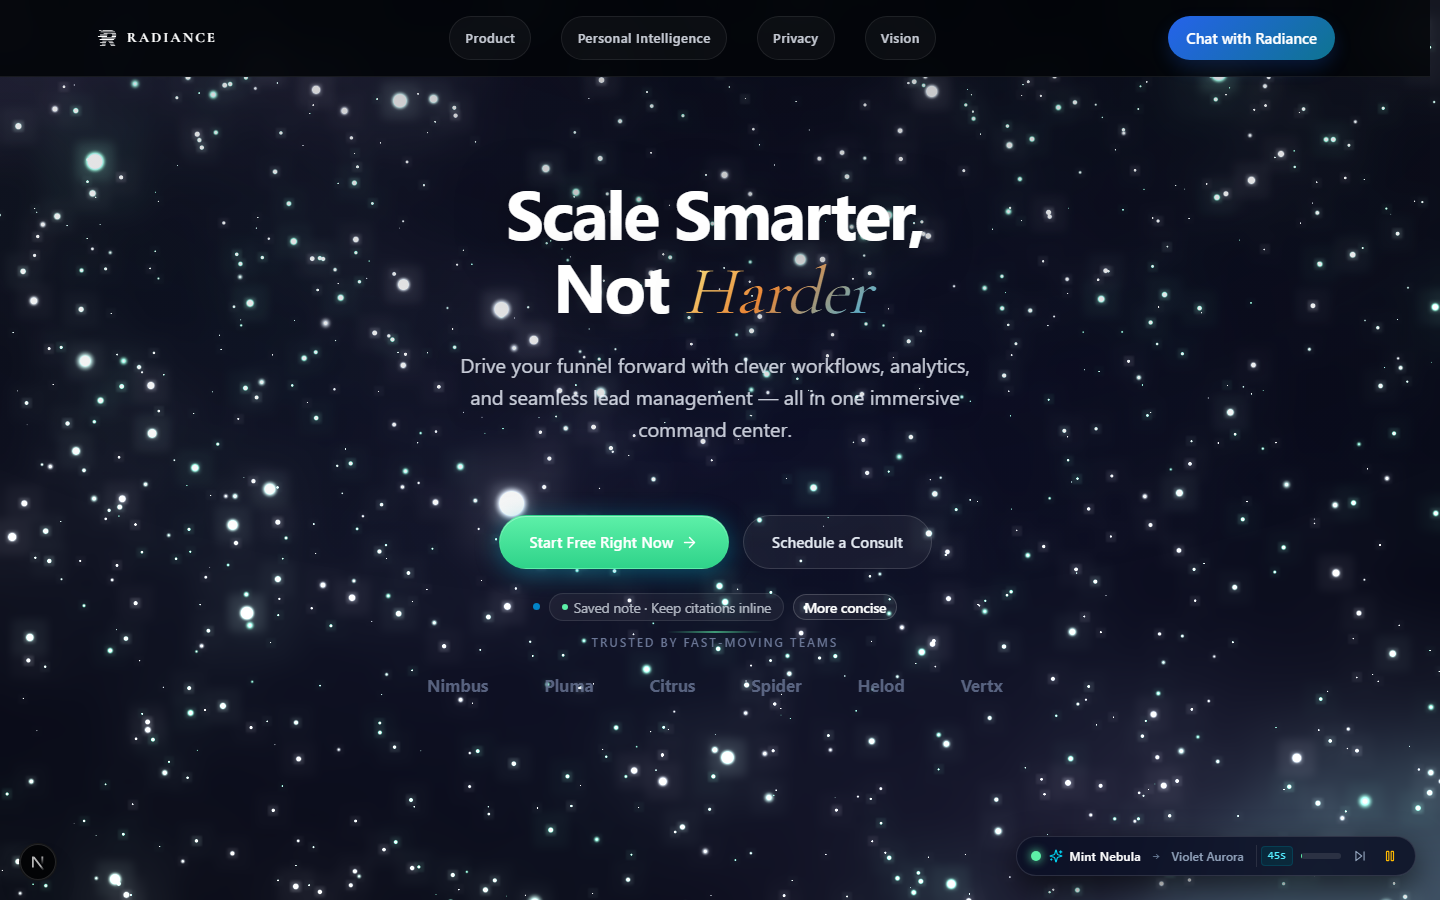
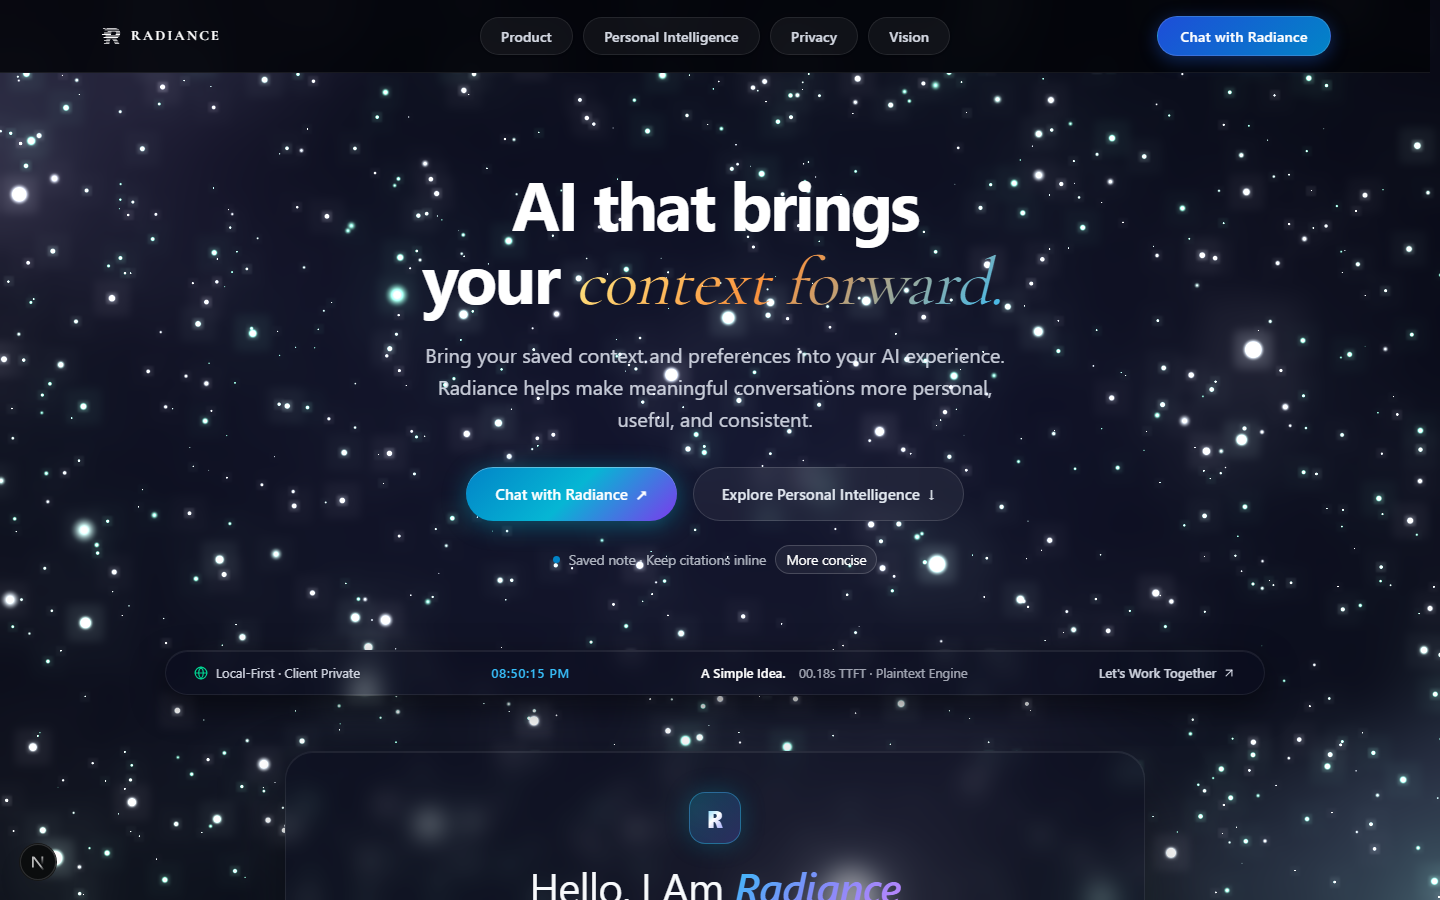
feat(landing): refine topbar navigation, center hero showcase, and remove legacy demo surfaces

diff --git a/src/components/landing/hero-landscape.css b/src/components/landing/hero-landscape.css
@@ -34,8 +34,66 @@
 }
 
 /* ==========================================================================
-   Top Hero Showcase Grid (Editorial Left + Fluted Glass Torus Right)
+   Top Hero Centered Showcase (Editorial Authority — No Slop, Perfect Rhythm)
    ========================================================================== */
+
+.hero-center-showcase {
+  display: flex;
+  flex-direction: column;
+  align-items: center;
+  justify-content: center;
+  width: 100%;
+  max-width: 920px;
+  margin: 0 auto 3.25rem;
+  text-align: center;
+  box-sizing: border-box;
+}
+
+.hero-editorial-center {
+  display: flex;
+  flex-direction: column;
+  align-items: center !important;
+  text-align: center !important;
+  width: 100%;
+  max-width: 840px;
+  margin: 0 auto;
+}
+
+.hero-editorial-center .hero-eyebrow-badge {
+  margin-left: auto;
+  margin-right: auto;
+}
+
+.hero-editorial-center .hero-narrative-title,
+.hero-editorial-center .landing-display {
+  text-align: center;
+  margin: 0 auto 1.25rem;
+}
+
+.hero-editorial-center .hero-narrative-lede,
+.hero-editorial-center .landing-lede {
+  text-align: center;
+  margin: 0 auto 2.25rem;
+  max-width: 660px;
+}
+
+.hero-editorial-center .hero-actions-row {
+  display: flex;
+  align-items: center;
+  justify-content: center;
+  gap: 1rem;
+  margin: 0 auto;
+  flex-wrap: wrap;
+}
+
+.hero-editorial-center .hero-subtext-note {
+  display: flex;
+  align-items: center;
+  justify-content: center;
+  gap: 0.5rem;
+  margin: 1.25rem auto 0;
+  text-align: center;
+}
 
 .hero-showcase-grid {
   display: grid;
@@ -321,41 +379,151 @@
 .landing-root .landing-nav,
 .landing-root .landing-nav-redesign {
   --txt: #ffffff !important;
-  background: rgba(1, 3, 7, 0.88) !important;
+  position: sticky;
+  top: 0;
+  z-index: 50;
+  width: 100%;
+  background: rgba(2, 4, 8, 0.85) !important;
   border-bottom: 1px solid rgba(255, 255, 255, 0.08) !important;
   color: #ffffff !important;
   backdrop-filter: blur(20px) !important;
   -webkit-backdrop-filter: blur(20px) !important;
+  padding: 0.75rem 0 !important;
+}
+
+.landing-root .landing-nav-row {
+  max-width: 1280px;
+  width: 100%;
+  margin: 0 auto;
+  padding: 0 1.5rem;
+  display: flex;
+  align-items: center;
+  justify-content: space-between;
+  box-sizing: border-box;
+}
+
+.landing-root .landing-nav-brand-wrap {
+  flex: 1;
+  display: flex;
+  align-items: center;
+  justify-content: flex-start;
+}
+
+.landing-root .landing-nav-links {
+  display: none;
+  align-items: center;
+  justify-content: center;
+  gap: 0.65rem;
+  flex: 2;
+}
+
+@media (min-width: 980px) {
+  .landing-root .landing-nav-links {
+    display: flex;
+  }
+}
+
+.landing-root .landing-nav-actions {
+  flex: 1;
+  display: flex;
+  align-items: center;
+  justify-content: flex-end;
+  gap: 0.75rem;
 }
 
 .landing-root .landing-nav .landing-nav-links a,
 .landing-root .landing-nav-redesign .landing-nav-links a {
   display: inline-flex;
   align-items: center;
-  padding: 0.35rem 0.95rem;
+  justify-content: center;
+  min-height: 38px;
+  padding: 0.45rem 1.25rem;
   border-radius: 9999px;
-  background: rgba(255, 255, 255, 0.04);
-  border: 1px solid rgba(255, 255, 255, 0.08);
+  background: rgba(255, 255, 255, 0.05);
+  border: 1px solid rgba(255, 255, 255, 0.09);
   font-family: var(--font-sans);
-  font-size: 0.8125rem;
+  font-size: 0.875rem;
   font-weight: 500;
-  letter-spacing: 0.04em;
-  color: rgba(240, 245, 255, 0.82) !important;
-  transition: background-color 0.2s ease, border-color 0.2s ease, color 0.2s ease, box-shadow 0.2s ease;
+  letter-spacing: 0.01em;
+  color: rgba(240, 245, 255, 0.88) !important;
+  text-decoration: none;
+  transition: all 0.2s cubic-bezier(0.16, 1, 0.3, 1);
+  box-shadow: 0 1px 2px rgba(0, 0, 0, 0.2);
 }
 
 .landing-root .landing-nav .landing-nav-links a:hover,
 .landing-root .landing-nav-redesign .landing-nav-links a:hover {
-  background: rgba(255, 255, 255, 0.09);
-  border-color: rgba(6, 182, 212, 0.35);
-  color: #38bdf8 !important;
-  box-shadow: 0 0 16px rgba(6, 182, 212, 0.2);
+  background: rgba(255, 255, 255, 0.12);
+  border-color: rgba(255, 255, 255, 0.22);
+  color: #ffffff !important;
+  box-shadow: 0 0 16px rgba(255, 255, 255, 0.08);
+  transform: translateY(-1px);
+}
+
+.landing-root .landing-nav .landing-nav-links a:active,
+.landing-root .landing-nav-redesign .landing-nav-links a:active {
+  transform: translateY(0) scale(0.98);
+}
+
+/* Right Header CTA Button */
+.landing-root .landing-nav-actions .landing-cta-desktop,
+.landing-root .landing-nav .landing-cta {
+  display: none;
+  align-items: center;
+  justify-content: center;
+  min-height: 40px;
+  padding: 0.55rem 1.4rem;
+  border-radius: 9999px;
+  background: linear-gradient(135deg, #1d4ed8 0%, #0284c7 100%) !important;
+  border: 1px solid rgba(255, 255, 255, 0.15) !important;
+  font-family: var(--font-sans);
+  font-size: 0.875rem;
+  font-weight: 600;
+  letter-spacing: 0.02em;
+  color: #ffffff !important;
+  text-decoration: none;
+  white-space: nowrap;
+  box-shadow: 0 4px 18px rgba(37, 99, 235, 0.38) !important;
+  transition: all 0.2s cubic-bezier(0.16, 1, 0.3, 1) !important;
+}
+
+@media (min-width: 980px) {
+  .landing-root .landing-nav-actions .landing-cta-desktop,
+  .landing-root .landing-nav .landing-cta {
+    display: inline-flex;
+  }
+}
+
+.landing-root .landing-nav-actions .landing-cta-desktop:hover,
+.landing-root .landing-nav .landing-cta:hover {
+  background: linear-gradient(135deg, #2563eb 0%, #0369a1 100%) !important;
+  box-shadow: 0 6px 24px rgba(37, 99, 235, 0.55) !important;
+  transform: translateY(-1px);
+}
+
+.landing-root .landing-nav-actions .landing-cta-desktop:active,
+.landing-root .landing-nav .landing-cta:active {
+  transform: translateY(0) scale(0.98);
 }
 
 .landing-root .landing-nav .landing-menu-btn,
 .landing-root .landing-nav-redesign .landing-menu-btn {
-  border-color: rgba(255, 255, 255, 0.15) !important;
+  display: inline-flex;
+  align-items: center;
+  justify-content: center;
+  width: 40px;
+  height: 40px;
+  border: 1px solid rgba(255, 255, 255, 0.15) !important;
+  background: rgba(255, 255, 255, 0.05) !important;
   color: #ffffff !important;
+  border-radius: 9999px;
+}
+
+@media (min-width: 980px) {
+  .landing-root .landing-nav .landing-menu-btn,
+  .landing-root .landing-nav-redesign .landing-menu-btn {
+    display: none !important;
+  }
 }
 
 /* Stage & Field wrappers */

diff --git a/src/components/landing/hero-landscape.tsx b/src/components/landing/hero-landscape.tsx
@@ -3,9 +3,7 @@
 import React, { useState, useEffect, memo } from "react";
 import { motion, useReducedMotion } from "motion/react";
 import { Sparkles, Globe, ArrowUpRight } from "lucide-react";
-import { FlutedGlassTorus } from "./fluted-glass-torus";
 import { HeroProductStage } from "./hero-product-stage";
-import { IntelligenceField } from "./intelligence-field";
 import { LandingCta } from "./landing-cta";
 import { motionDurations, motionEasing } from "@/lib/motion/presets";
 import "./hero-landscape.css";
@@ -47,11 +45,11 @@ export function HeroLandscape() {
       aria-labelledby="hero-display-heading"
     >
       <div className="hero-landscape-shell">
-        {/* Top Hero Split Showcase (Synasite & Retreats Editorial Grid) */}
-        <div className="hero-showcase-grid">
-          {/* Left Column: Editorial Typography & High-Craft CTAs */}
+        {/* Top Hero Centered Showcase */}
+        <div className="hero-center-showcase">
+          {/* Editorial Typography & High-Craft CTAs */}
           <motion.div 
-            className="hero-editorial-column"
+            className="hero-editorial-column hero-editorial-center"
             initial={shouldReduceMotion ? false : { opacity: 0, y: 24 }}
             animate={{ opacity: 1, y: 0 }}
             transition={shouldReduceMotion ? { duration: 0 } : { duration: 0.6, ease: motionEasing.entrance }}
@@ -79,16 +77,6 @@ export function HeroLandscape() {
               <span>Saved note · Keep citations inline</span>
               <span>More concise</span>
             </p>
-          </motion.div>
-
-          {/* Right Column: Fluted Glass Slit-Scan Prism & Aurora Torus (Synasite Reference) */}
-          <motion.div
-            className="hero-visual-column"
-            initial={shouldReduceMotion ? false : { opacity: 0, scale: 0.96 }}
-            animate={{ opacity: 1, scale: 1 }}
-            transition={shouldReduceMotion ? { duration: 0 } : { duration: 0.7, delay: 0.1, ease: motionEasing.entrance }}
-          >
-            <FlutedGlassTorus />
           </motion.div>
         </div>
 
@@ -131,17 +119,6 @@ export function HeroLandscape() {
           transition={shouldReduceMotion ? { duration: 0 } : { duration: 0.7, delay: 0.25, ease: motionEasing.entrance }}
         >
           <HeroProductStage />
-        </motion.div>
-
-        {/* Live Interactive Context Proof (Centered below product stage) */}
-        <motion.div
-          className="hero-field-wrapper"
-          style={{ width: "100%", maxWidth: "980px", marginTop: "3.5rem" }}
-          initial={shouldReduceMotion ? false : { opacity: 0, y: 24 }}
-          animate={{ opacity: 1, y: 0 }}
-          transition={shouldReduceMotion ? { duration: 0 } : { duration: 0.6, delay: 0.35, ease: motionEasing.entrance }}
-        >
-          <IntelligenceField />
         </motion.div>
       </div>
     </section>

diff --git a/src/components/landing/landing-page.tsx b/src/components/landing/landing-page.tsx
@@ -18,7 +18,6 @@ import "./context-pipeline.css";
 import "./privacy-and-vision.css";
 import "./ascend-planet-landing.css";
 
-import { DynamicThemeIndicator } from "./dynamic-theme-indicator";
 import { LandingNav } from "./landing-nav";
 import { HeroLandscape } from "./hero-landscape";
 import { ProblemComparisonSection } from "./problem-comparison-section";
@@ -68,11 +67,8 @@ export function LandingPage() {
         Skip to content
       </a>
 
-      {/* Fixed WebGL Starfield Canvas (Three.js r0.143 with 45s Dynamic Theme Fading) */}
+      {/* Fixed WebGL Starfield Canvas (Three.js r0.143 with 8s Dynamic Theme Fading in Background) */}
       <WebGLStarfield />
-
-      {/* Floating Dynamic 45-Second Theme HUD Indicator */}
-      <DynamicThemeIndicator />
 
       {/* Global Navigation with Radix Dialog Menu */}
       <LandingNav />

diff --git a/src/components/landing/landing-nav.tsx b/src/components/landing/landing-nav.tsx
@@ -31,9 +31,11 @@ export function LandingNav() {
   return (
     <header className={cn("landing-nav", scrolled && "is-scrolled", "landing-nav-redesign")}>
       <div className="landing-shell landing-nav-row">
-        <Link href="/" className="inline-flex items-center min-h-11" aria-label="Radiance home">
-          <RadianceLogo variant="lockup" size="sm" aria-hidden />
-        </Link>
+        <div className="landing-nav-brand-wrap">
+          <Link href="/" className="inline-flex items-center min-h-11" aria-label="Radiance home">
+            <RadianceLogo variant="lockup" size="sm" aria-hidden />
+          </Link>
+        </div>
 
         <nav className="landing-nav-links" aria-label="Primary">
           {NAV_LINKS.map((link) => (

diff --git a/src/components/landing/hero-product-stage.tsx b/src/components/landing/hero-product-stage.tsx
@@ -128,7 +128,7 @@ export function HeroProductStage() {
     <div 
       className="hero-stage-container"
       role="region"
-      aria-label="Interactive Radiance conversation stage"
+      aria-label="An illustrative Radiance conversation"
     >
       {/* Central Radiance Brand Header */}
       <div className="hero-stage-header">
